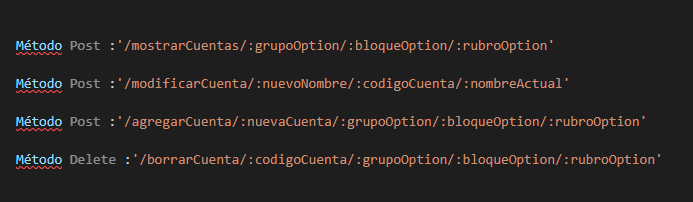
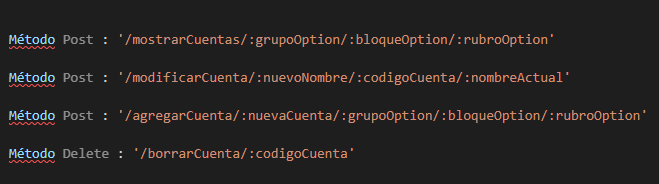
Organización de directorios para Frontend y Backend
Se han creado 2 carpetas para tener organizado el trabajo de cada área y se agregó un script para correr ambos servicios web en simultaneo develop

diff --git a/Back-Develop/src/Controllers/borrarCuentaController.js b/Back-Develop/src/Controllers/borrarCuentaController.js
@@ -2,10 +2,10 @@ const conexion = require('../Database/conexion');
 
 //Controlador para modificar nombre de la cuenta.
 const borrarCuenta = (req, res) => {
-    const {codigoCuenta, grupoOption, bloqueOption, rubroOption} = req.params;
+    const {codigoCuenta} = req.params;
  
     //Obtenemos los datos de las cuentas desde la base de datos utilizando el stored procedure
-    conexion.query('CALL borrarCuenta(?, ?, ?, ?)', [codigoCuenta, grupoOption, bloqueOption, rubroOption], (error, results) => {
+    conexion.query('CALL borrarCuenta(?)', [codigoCuenta], (error, results) => {
         if (error) throw error;
 
         //Para ver por consola
